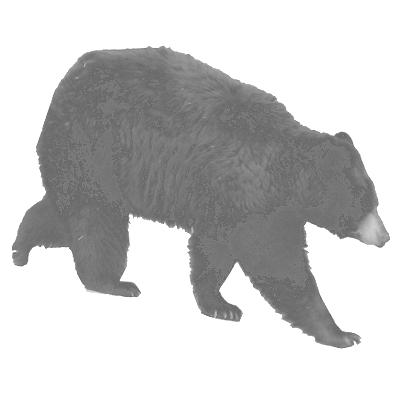
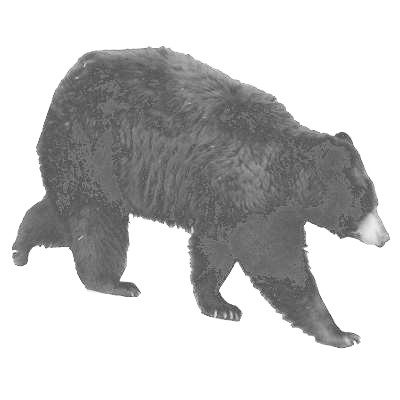
update

diff --git a/src/Components/MemTask.jsx b/src/Components/MemTask.jsx
@@ -289,6 +289,7 @@ class MemTask extends React.Component {
         else if (this.state.taskSection === "fixation") sectionTag = "f";
         else if (this.state.taskSection === "stimulus") sectionTag = "s";
         else if (this.state.taskSection === "choice") sectionTag = "c";
+        else if (this.state.taskSection === "encode") sectionTag = "e";
         else if (this.state.taskSection === "choiceFeedback") sectionTag = "fb";
         else if (this.state.taskSection === "confidence") sectionTag = "conf";
         else if (this.state.taskSection === "rating") sectionTag = "r";
@@ -753,7 +754,7 @@ class MemTask extends React.Component {
       quizScreen: true,
       instructScreen: false,
       taskScreen: false,
-      taskSection: "gConf",
+      taskSection: "rating",
       mouseMovements: [],
     });
   }
@@ -1495,7 +1496,7 @@ class MemTask extends React.Component {
       this.state.instructScreen === false &&
       this.state.taskScreen === false &&
       this.state.quizScreen === true &&
-      this.state.taskSection === "gConf"
+      this.state.taskSection === "rating"
     ) {
       text = <div> {this.quizText(this.state.quizState)}</div>;
       console.log("Quiz state: " + this.state.quizState);

diff --git a/src/Components/PerTask.jsx b/src/Components/PerTask.jsx
@@ -234,7 +234,7 @@ class PerTask extends React.Component {
         else if (this.state.taskSection === "choice") sectionTag = "c";
         else if (this.state.taskSection === "choiceFeedback") sectionTag = "fb";
         else if (this.state.taskSection === "confidence") sectionTag = "conf";
-        else if (this.state.taskSection === "gConf") sectionTag = "r";
+        else if (this.state.taskSection === "rating") sectionTag = "r";
         else if (this.state.taskSection === "break") sectionTag = "b";
 
         const currentCoord = {
@@ -697,7 +697,7 @@ class PerTask extends React.Component {
       quizScreen: true,
       instructScreen: false,
       taskScreen: false,
-      taskSection: "gConf",
+      taskSection: "rating",
       mouseMovements: [],
     });
   }
@@ -1317,7 +1317,7 @@ class PerTask extends React.Component {
       this.state.instructScreen === false &&
       this.state.taskScreen === false &&
       this.state.quizScreen === true &&
-      this.state.taskSection === "gConf"
+      this.state.taskSection === "rating"
     ) {
       text = <div> {this.quizText(this.state.quizState)}</div>;
       //    console.log("Quiz state: " + this.state.quizState);
